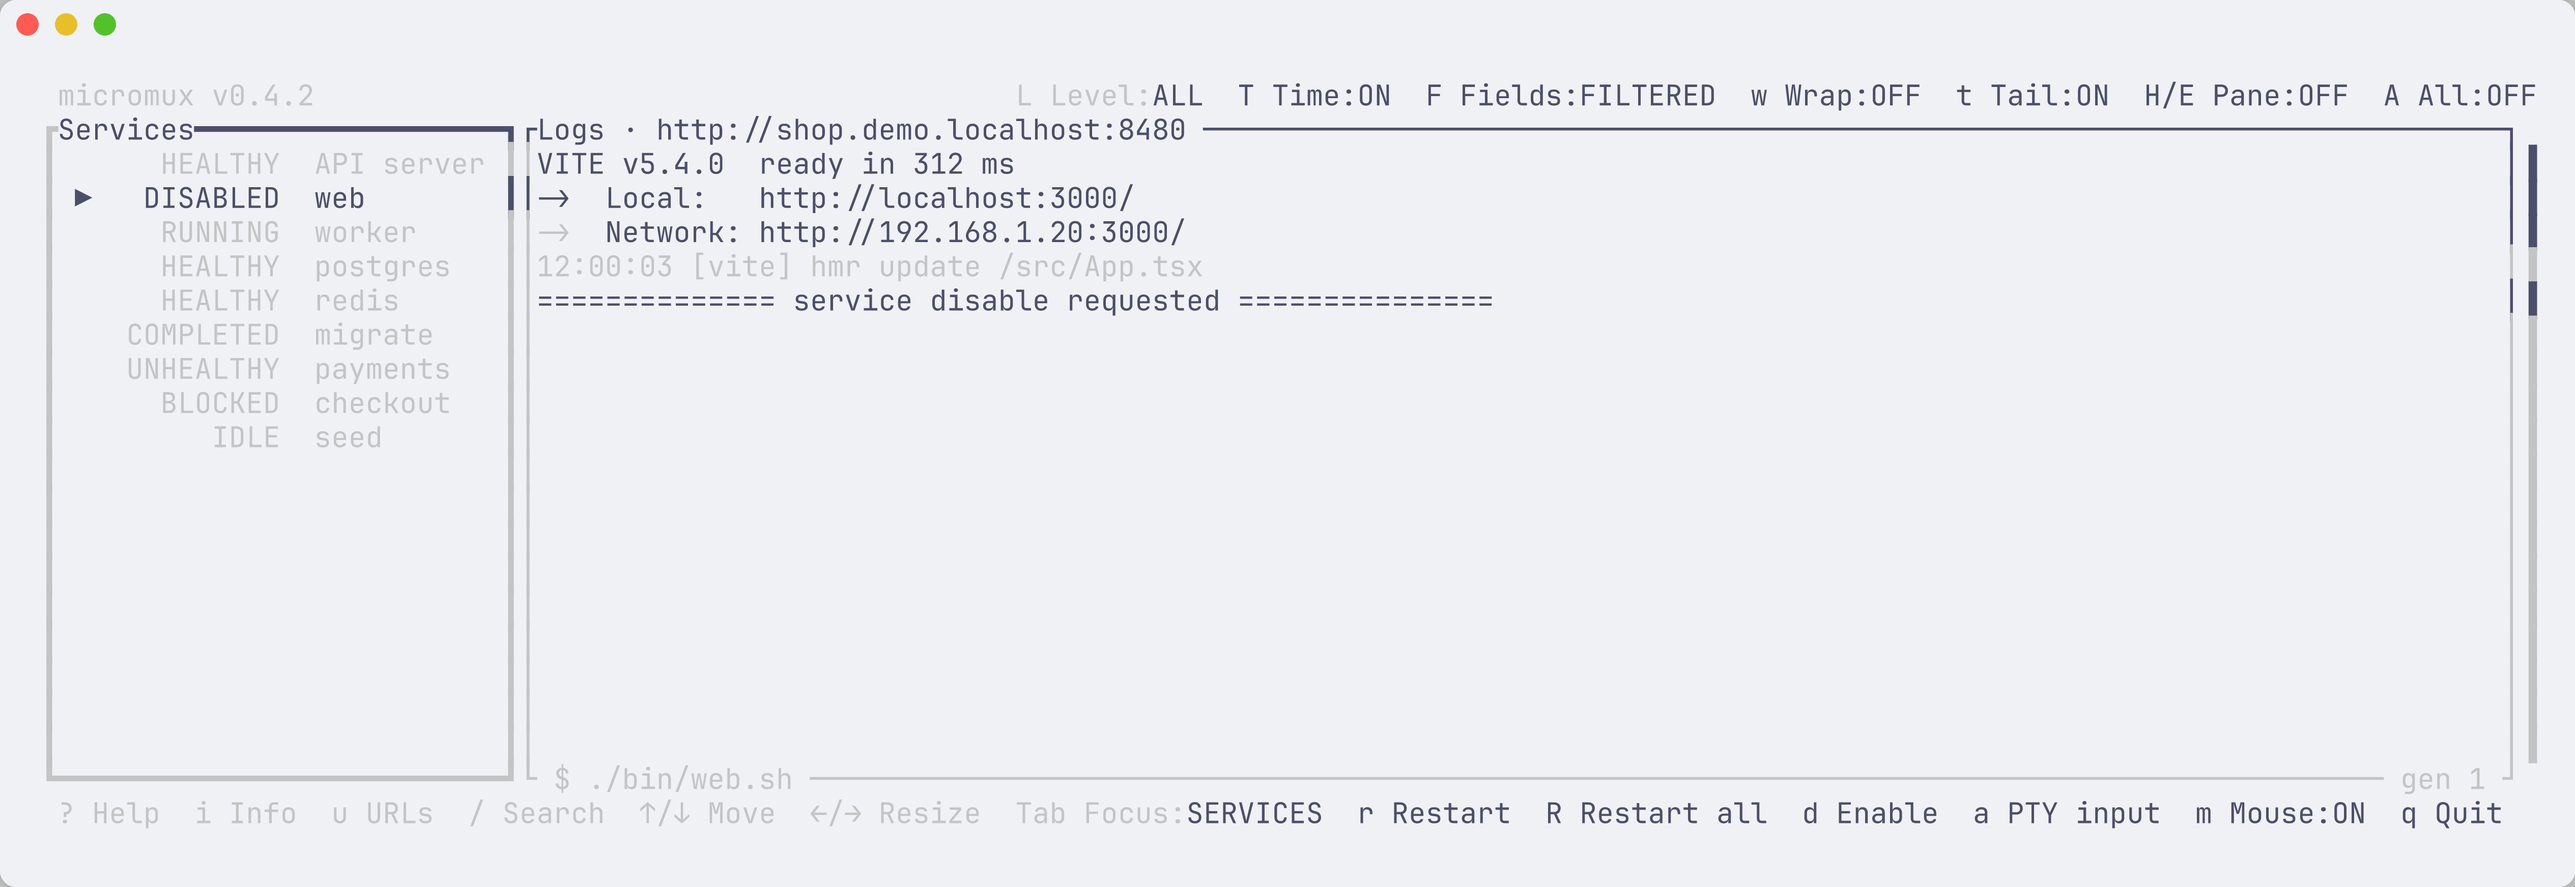
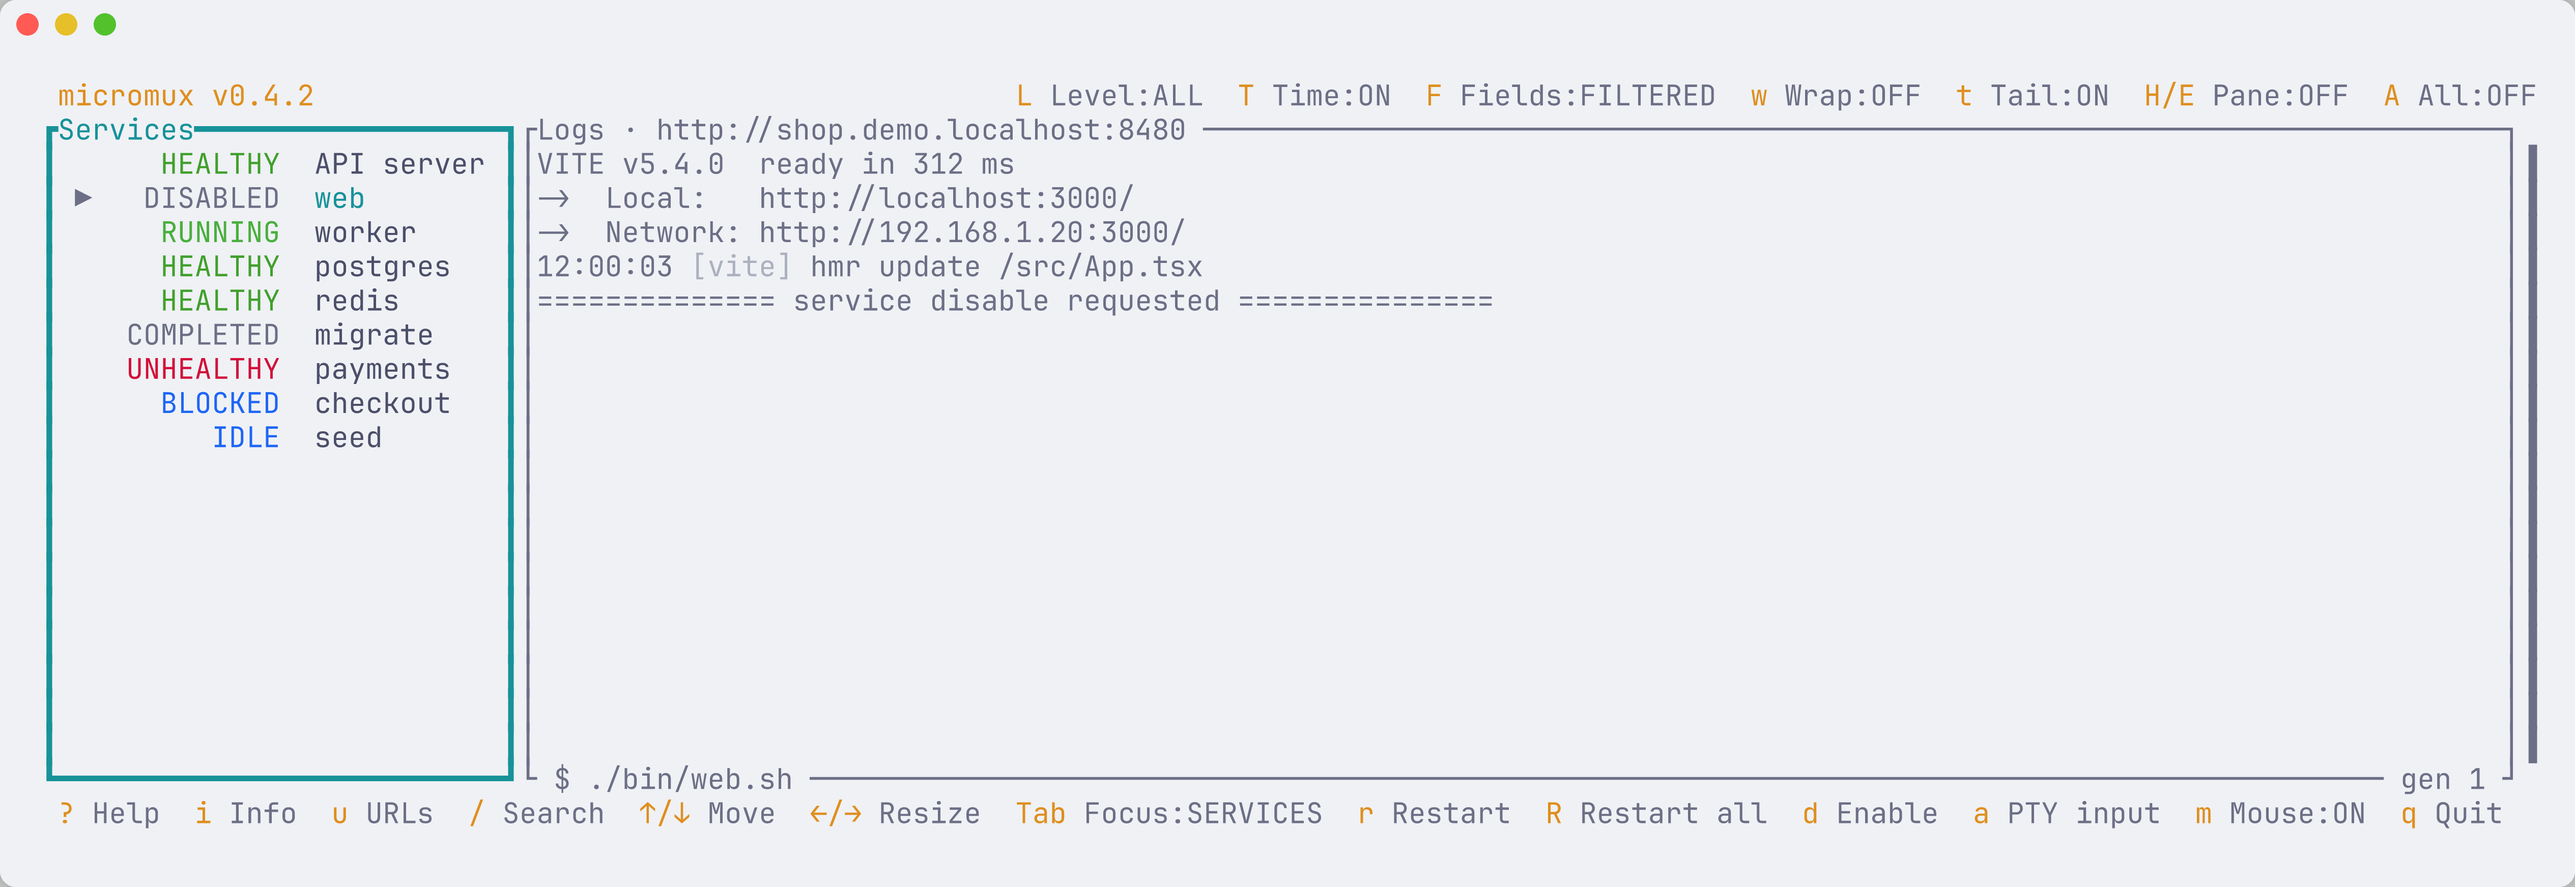
fix(docs): unset no_color when generating screenshots

diff --git a/crates/micromux-screenshot/src/capture.rs b/crates/micromux-screenshot/src/capture.rs
@@ -30,6 +30,8 @@ pub(crate) fn capture(
     let mut cmd = CommandBuilder::new(micromux);
     cmd.cwd(example_dir);
     cmd.env("TERM", "xterm-256color");
+    // Documentation captures need the palette even when the caller disables terminal colors.
+    cmd.env_remove("NO_COLOR");
     // The TUI shows log timestamps in local time, so pin the zone to render the demo records'
     // fixed timestamps identically on every machine.
     cmd.env("TZ", "UTC");

diff --git a/crates/micromux-screenshot/src/freeze.rs b/crates/micromux-screenshot/src/freeze.rs
@@ -24,6 +24,7 @@ pub(crate) fn ensure_freeze() -> Result<(), Error> {
 pub(crate) fn run_freeze(input: &Path, output: &Path, theme: &Theme) -> Result<(), Error> {
     let (r, g, b) = theme.background;
     let status = std::process::Command::new("freeze")
+        .env_remove("NO_COLOR")
         .arg("--language")
         .arg("text")
         .arg("--output")
